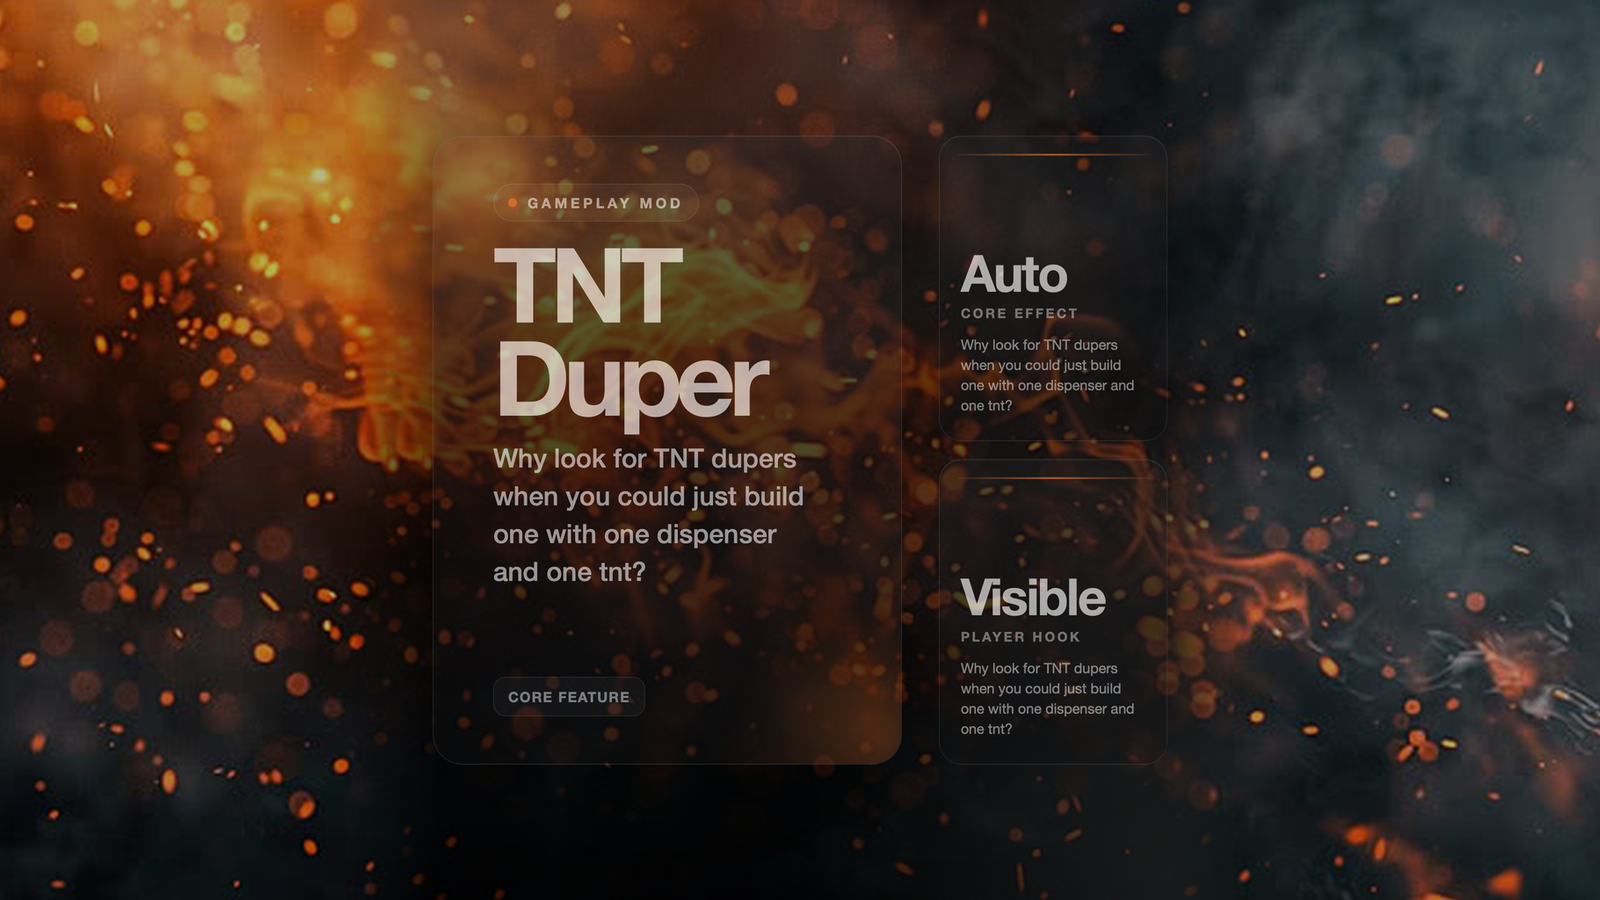
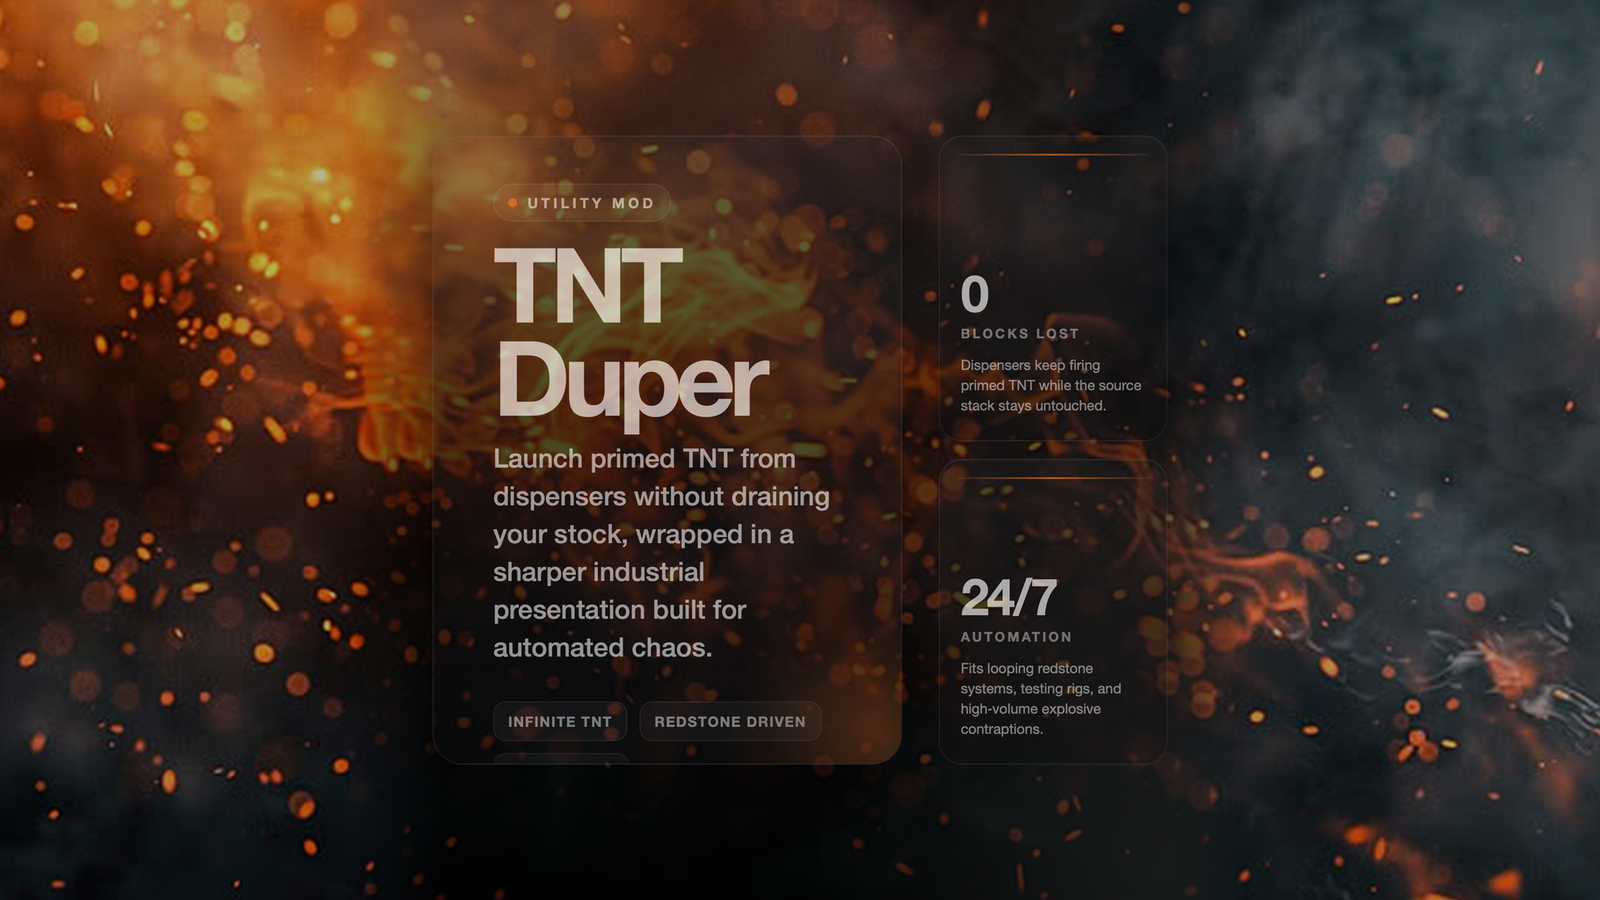
Auto-sync TNT Duper source snapshot

diff --git a/docs/Home.md b/docs/Home.md
@@ -1,19 +1,38 @@
 # TNT Duper
 
-A tiny Forge mod that changes dispensers so they can duplicate TNT without consuming it.
+Allows dispensers to duplicate TNT without using up the TNT item.
 
-## What It Does
-- Dispensers duplicate TNT when they dispense it, leaving the original TNT inside.
-- The duplicated TNT can be taken from the dispenser again.
-- When TNT is dispensed, a primed TNT entity appears and will explode.
-- The dispenser keeps the TNT item, allowing infinite TNT dispensing.
+### What It Does (for the user)
+
+- Right‑click a dispenser that contains TNT and it will spawn a primed TNT entity.
+- The TNT stays in the world and can be picked up or explode normally.
+- The TNT item used to trigger the dispenser remains in the dispenser, so you can keep using it.
+- Only the priming sound plays; no extra animation or consumption occurs.
+
+### Features
+
+- Infinite TNT dispensing from a single TNT item.
+- Works with any dispenser that holds TNT.
+- Compatible with vanilla TNT mechanics (same explosion behavior).
+- Works on both single‑player and multiplayer worlds.
+
+### Why Use This Mod?
+
+- Build automatic TNT farms without constantly refilling dispensers.
+- Simplify redstone contraptions that need repeated TNT bursts.
+- Save time and resources when testing explosions.
+- Easy to use – just place a dispenser and watch it duplicate TNT.
+
+## What You'll Notice
+
 - Dispensers can fire TNT without using up the TNT item.
+- The spawned TNT behaves like normal TNT and can be picked up or detonated.
 
 ## Quick Facts
 
 
 
-- Summary: Why look for TNT dupers when you could just build one with one dispenser and one tnt?
+- Summary: Hate building a fancy TNT duper with slime and tutorials? This mod makes it so you can just place a dispenser and get infinite TNT.
 
 - Loader: `forge`
 

diff --git a/docs/README.md b/docs/README.md
@@ -1,19 +1,38 @@
 # TNT Duper
 
-A tiny Forge mod that changes dispensers so they can duplicate TNT without consuming it.
+Allows dispensers to duplicate TNT without using up the TNT item.
 
-## What It Does
-- Dispensers duplicate TNT when they dispense it, leaving the original TNT inside.
-- The duplicated TNT can be taken from the dispenser again.
-- When TNT is dispensed, a primed TNT entity appears and will explode.
-- The dispenser keeps the TNT item, allowing infinite TNT dispensing.
+### What It Does (for the user)
+
+- Right‑click a dispenser that contains TNT and it will spawn a primed TNT entity.
+- The TNT stays in the world and can be picked up or explode normally.
+- The TNT item used to trigger the dispenser remains in the dispenser, so you can keep using it.
+- Only the priming sound plays; no extra animation or consumption occurs.
+
+### Features
+
+- Infinite TNT dispensing from a single TNT item.
+- Works with any dispenser that holds TNT.
+- Compatible with vanilla TNT mechanics (same explosion behavior).
+- Works on both single‑player and multiplayer worlds.
+
+### Why Use This Mod?
+
+- Build automatic TNT farms without constantly refilling dispensers.
+- Simplify redstone contraptions that need repeated TNT bursts.
+- Save time and resources when testing explosions.
+- Easy to use – just place a dispenser and watch it duplicate TNT.
+
+## What You'll Notice
+
 - Dispensers can fire TNT without using up the TNT item.
+- The spawned TNT behaves like normal TNT and can be picked up or detonated.
 
 ## Quick Facts
 
 
 
-- Summary: Why look for TNT dupers when you could just build one with one dispenser and one tnt?
+- Summary: Hate building a fancy TNT duper with slime and tutorials? This mod makes it so you can just place a dispenser and get infinite TNT.
 
 - Loader: `forge`
 

diff --git a/README.md b/README.md
@@ -1,13 +1,32 @@
 # TNT Duper
 
-A tiny Forge mod that changes dispensers so they can duplicate TNT without consuming it.
+Allows dispensers to duplicate TNT without using up the TNT item.
 
-## What It Does
-- Dispensers duplicate TNT when they dispense it, leaving the original TNT inside.
-- The duplicated TNT can be taken from the dispenser again.
-- When TNT is dispensed, a primed TNT entity appears and will explode.
-- The dispenser keeps the TNT item, allowing infinite TNT dispensing.
+### What It Does (for the user)
+
+- Right‑click a dispenser that contains TNT and it will spawn a primed TNT entity.
+- The TNT stays in the world and can be picked up or explode normally.
+- The TNT item used to trigger the dispenser remains in the dispenser, so you can keep using it.
+- Only the priming sound plays; no extra animation or consumption occurs.
+
+### Features
+
+- Infinite TNT dispensing from a single TNT item.
+- Works with any dispenser that holds TNT.
+- Compatible with vanilla TNT mechanics (same explosion behavior).
+- Works on both single‑player and multiplayer worlds.
+
+### Why Use This Mod?
+
+- Build automatic TNT farms without constantly refilling dispensers.
+- Simplify redstone contraptions that need repeated TNT bursts.
+- Save time and resources when testing explosions.
+- Easy to use – just place a dispenser and watch it duplicate TNT.
+
+## What You'll Notice
+
 - Dispensers can fire TNT without using up the TNT item.
+- The spawned TNT behaves like normal TNT and can be picked up or detonated.
 
 ---
 
